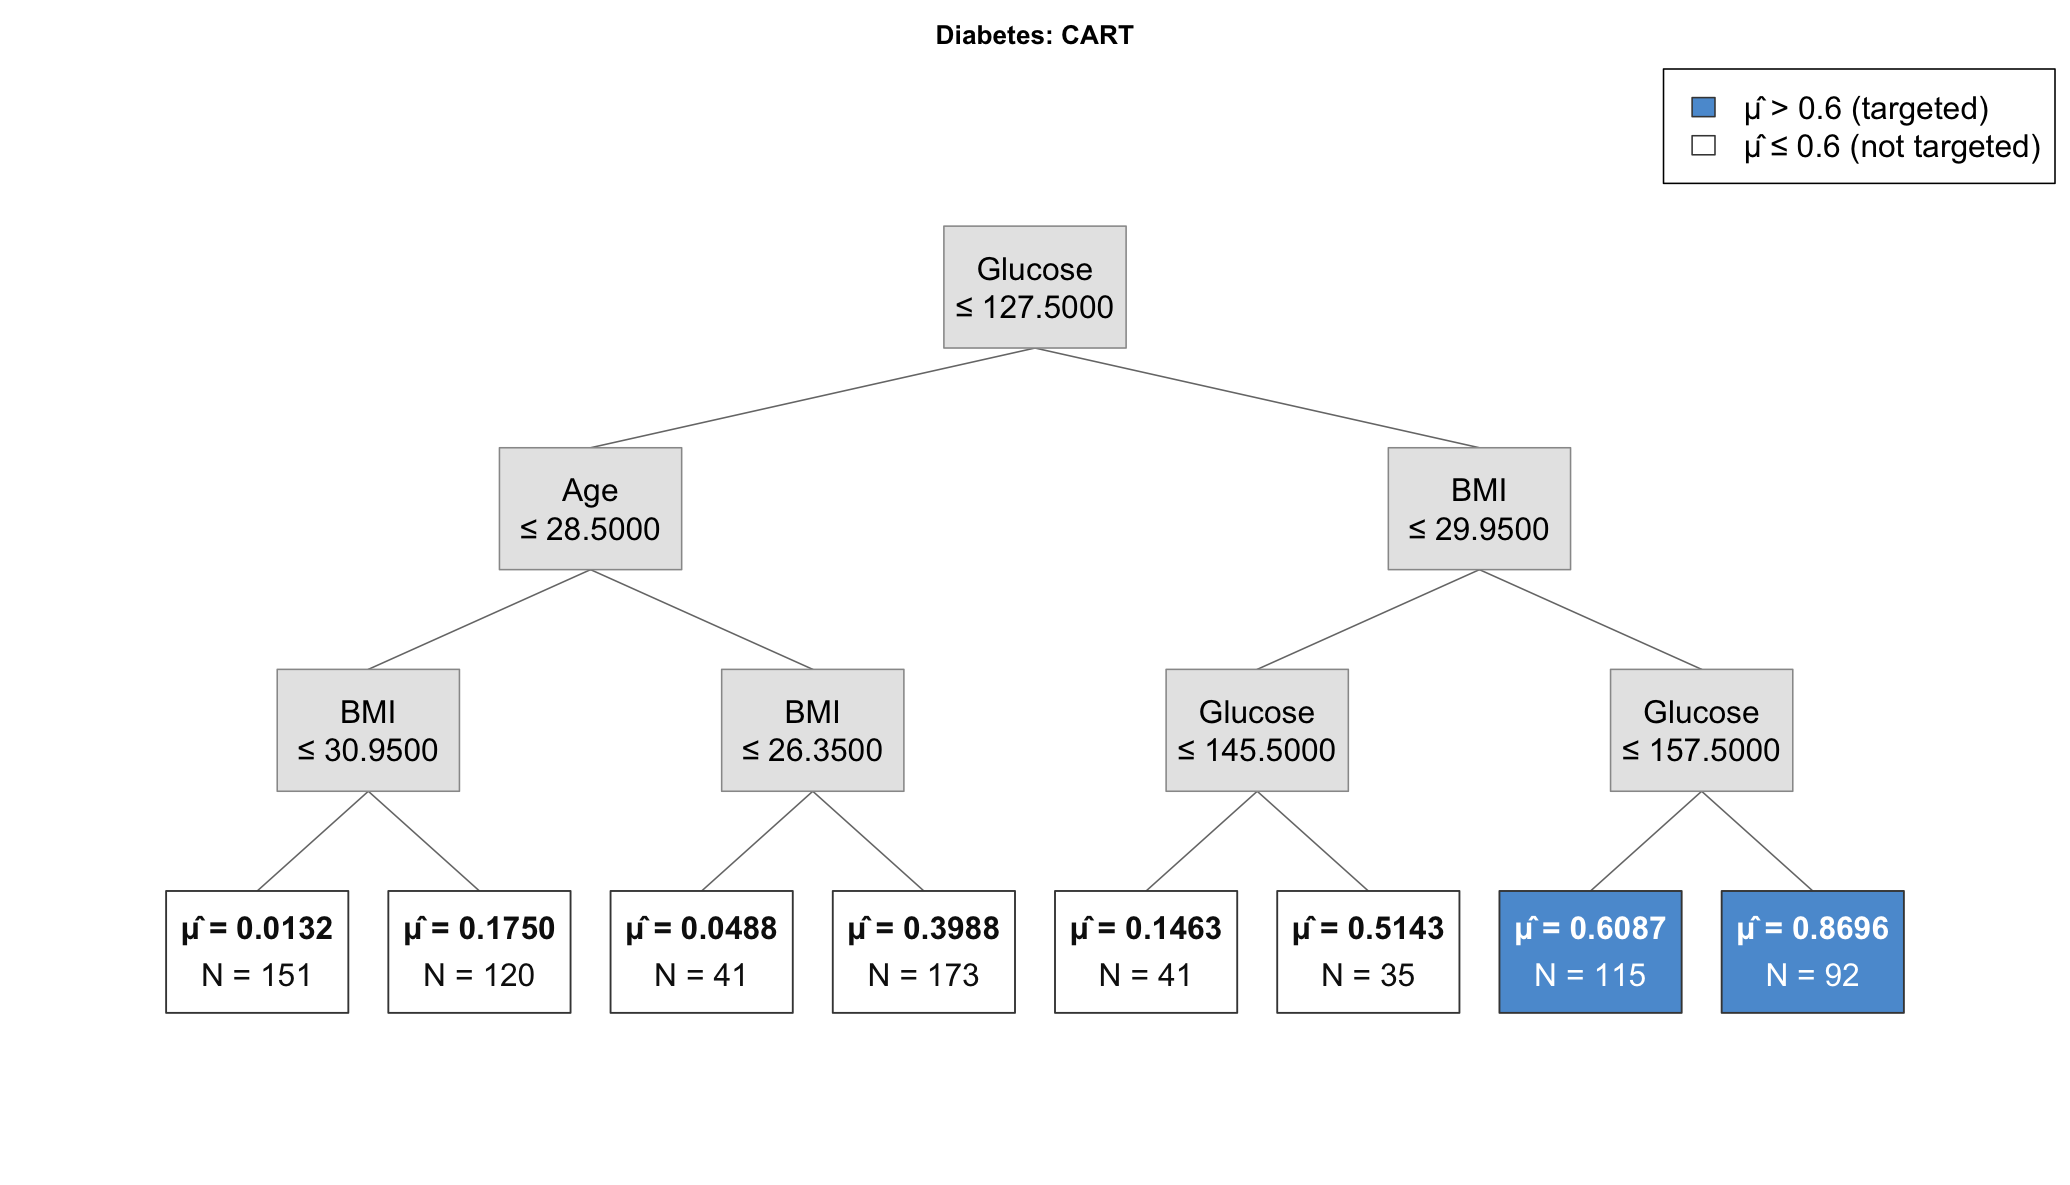
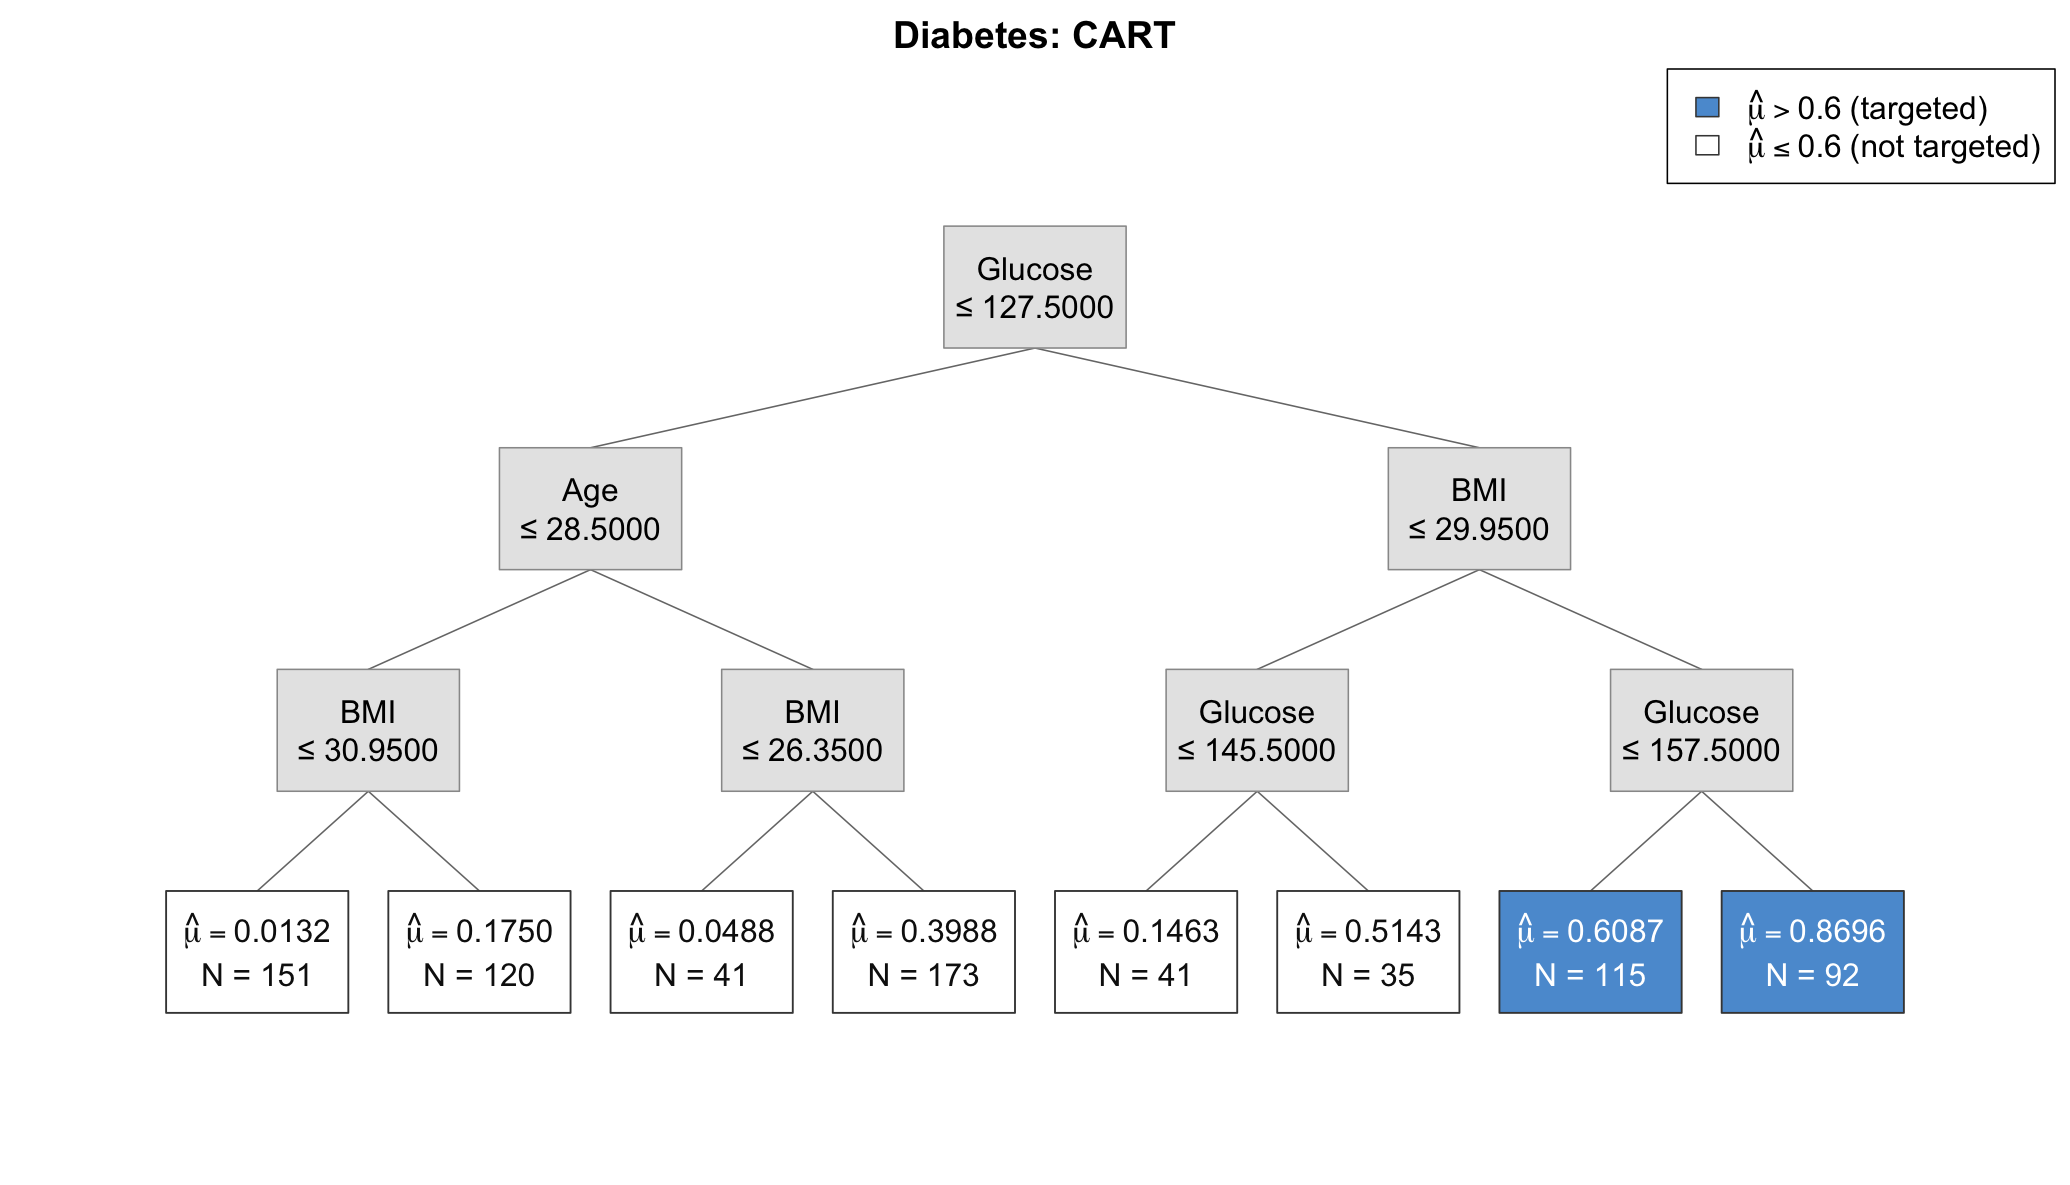
Improve mathematical labels and plot titles

diff --git a/README.md b/README.md
@@ -264,7 +264,7 @@ model$print_tree()
 model$plot(title = "MDFS tree", split_rule_lines = 2)
 model$plot(
   title = "MDFS tree", save_path = "tree.pdf",
-  font_size = 15, split_rule_lines = 2
+  font_size = 15, split_rule_lines = 2, title_font_size = 18
 )
 ```
 
@@ -274,7 +274,11 @@ selects the largest uniform font that fits every node box. Supply a positive
 font size in points, such as `font_size = 15`, to override the automatic size.
 Use `split_rule_lines = 1` for a one-line rule such as `Glucose ≤ 127.5`, or
 `split_rule_lines = 2` to place `Glucose` and `≤ 127.5` on separate lines.
-Two-line rules generally allow the automatic font size to be larger.
+Two-line rules generally allow the automatic font size to be larger. The title
+is slightly larger than the node text by default; set `title_font_size` to a
+positive point size, such as `title_font_size = 18`, to control it directly.
+Terminal-node means and legend labels use mathematical typesetting for
+`hat(mu)`, so the accent is centered over the Greek letter.
 
 ## Getting help
 
